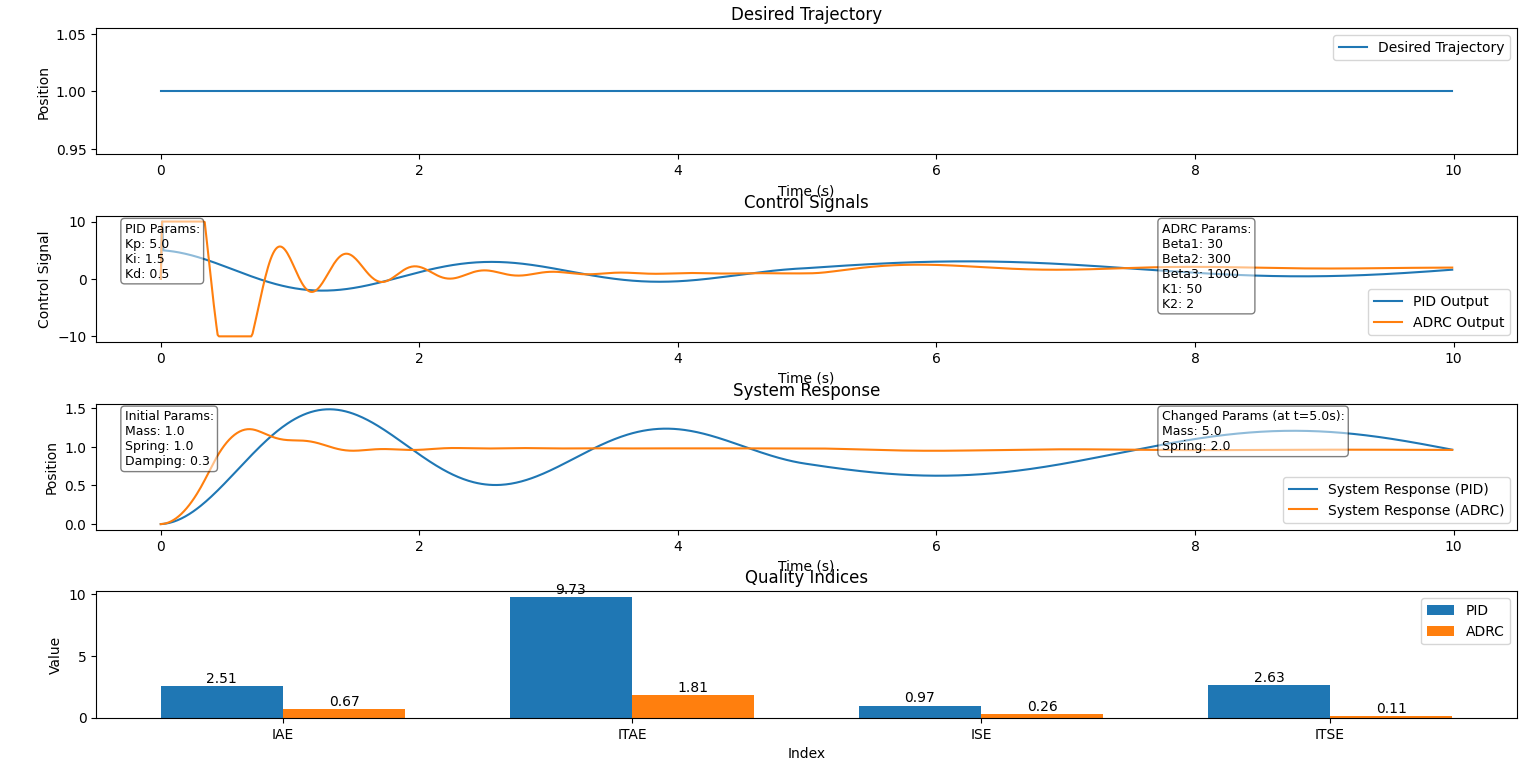
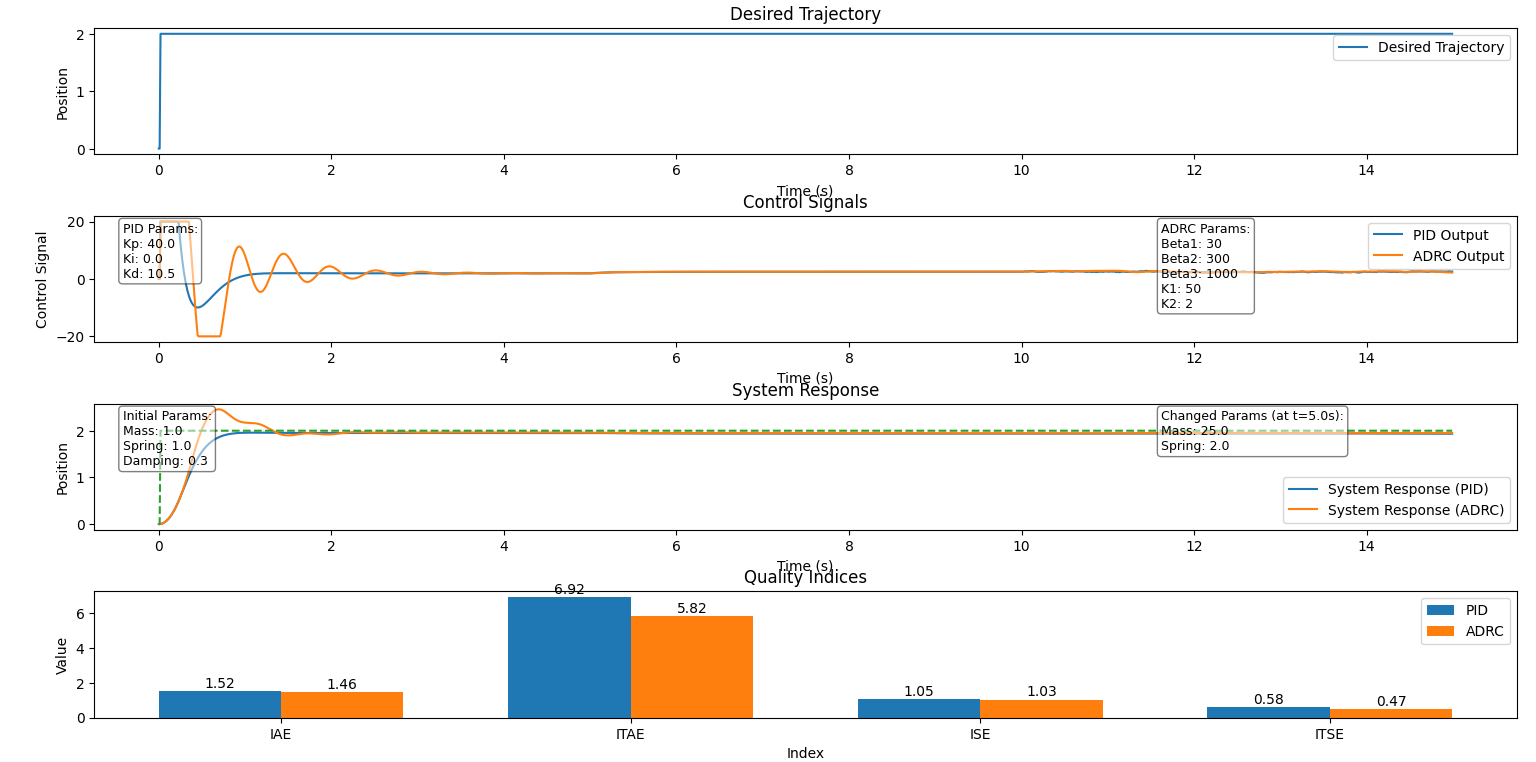
Update README.md

diff --git a/README.md b/README.md
@@ -6,7 +6,7 @@ Projekt z przedmiotu Teoria Sterowania w Robotyce. Porównanie odporności stero
 
 ## Opis projektu
 
-W projekcie zaimplementowano obiekt o pewnej masie oraz kilka różnych trajektorii, które można dostosowywać i wybierać według uznania. W trakcie symulacji porównano zachowanie sterowników PID i ADRC zarówno w przypadku stałych własności obiektu, jak i w sytuacji, gdy te własności zmieniają się w połowie symulacji. Wyniki są przedstawione w postaci wykresów, które zawierają trajektorię żądaną, sygnały sterujące oraz odpowiedzi układu.
+W projekcie zaimplementowano obiekt o pewnej masie oraz kilka różnych trajektorii, które można dostosowywać i wybierać według uznania. W trakcie symulacji porównano zachowanie sterowników PID i ADRC zarówno w przypadku stałych własności obiektu, jak i w sytuacji, gdy te własności zmieniają się w 5. sekundzie symulacji, natomiast po 10. sekundzie wprowadzony zostaje szum. Wyniki są przedstawione w postaci wykresów, które zawierają trajektorię żądaną, sygnały sterujące oraz odpowiedzi układu.
 
 ## Konfigurowalne parametry
 
@@ -28,18 +28,18 @@ Główny plik projektu, w którym znajduje się konfiguracja parametrów, inicja
 ```python
 # Configuration parameters
 dt = 0.01
-simulation_time = 10
+simulation_time = 15
 t = np.arange(0, simulation_time, dt)
 
 # Trajectory configuration
-trajectory_type = 'const'  # Options: 'sin', 'const', 'poly', 'triangle'
-const_value = 1.0  # for 'const'
-poly_coefficients = [1, -2, 1]  # for 'poly'
+trajectory_type = 'sin'  # Options: 'sin', 'const', 'poly', 'triangle'
+const_value = 2.0  # for 'const'
+poly_coefficients = [1, -3, 1]  # for 'poly'
 triangle_period = 2  # for 'triangle'
 triangle_amplitude = 1  # for 'triangle'
 
 # Controller parameters
-pid_params = {'kp': 5.0, 'ki': 1.5, 'kd': 0.5}
+pid_params = {'kp': 40.0, 'ki': 0., 'kd': 10.5}
 adrc_params = {'beta1': 30, 'beta2': 300, 'beta3': 1000, 'k1': 50, 'k2': 2, 'dt': dt}
 
 # Initial system parameters
@@ -93,11 +93,19 @@ class MassSpringDamper:
         self.damping_coefficient = damping_coefficient
         self.position = 0
         self.velocity = 0
+        self.noise = 0
 
     def update(self, force, dt, current_time):
+        if current_time>5.0:
+            self.mass = 1.0
+            self.spring_constant = 1.3
+            self.damping_coefficient = 1.5 *10
+        if current_time> 10.0:
+            self.noise = np.random.normal(0, 0.5)
+
         acceleration = (force - self.spring_constant * self.position
                         - self.damping_coefficient * self.velocity) / self.mass
-        self.velocity += acceleration * dt
+        self.velocity += (acceleration+self.noise) * dt
         self.position += self.velocity * dt
         return self.position
 ```
@@ -112,8 +120,8 @@ class PIDController:
         self.kd = kd
         self.integral = 0
         self.previous_error = 0
-        self.min = -10
-        self.max = 10
+        self.min = -20
+        self.max = 20
 
     def calculate(self, setpoint, measured_value, dt):
         error = setpoint - measured_value
@@ -149,8 +157,8 @@ class ADRCController:
         self.eso = ESO(beta1, beta2, beta3, dt)
         self.k1 = k1
         self.k2 = k2
-        self.min = -10
-        self.max = 10
+        self.min = -20
+        self.max = 20
 
     def calculate(self, setpoint, measured_value, dt):
         x1_hat, x2_hat, x3_hat = self.eso.update(measured_value)
@@ -175,14 +183,14 @@ def calculate_quality_indices(time, trajectory, response):
     return IAE, ITAE, ISE, ITSE
 ```
 
-### Jak Uruchomić
+## Jak uruchomić
 
 1. Upewnij się, że masz zainstalowany Python 3.11.
 2. Zainstaluj wymagane biblioteki używając `pip install -r requirements.txt`.
 3. Ustaw wirtualne środowisko i aktywuj je.
 4. Uruchom skrypt `main.py`.
 
-## Wykresy wyników
+## Wyniki testów
 
 ### Trajektoria sinusoidalna (bez zmiany parametrów)
 ![sin_bez_zmiany](plots/sin_bez_zmiany.png)
@@ -204,29 +212,29 @@ def calculate_quality_indices(time, trajectory, response):
 
 ### Podsumowanie
 
-Wyniki symulacji pokazują, że sterownik ADRC jest wyraźnie bardziej odporny na zakłócenia i zmiany w parametrach obiektu w porównaniu do klasycznego sterownika PID. Sterownik ADRC lepiej reaguje na dynamiczne odchylenia już w trakcie swojego działania, co sprawia, że jest bardziej efektywny w utrzymaniu zadanej trajektorii nawet w trudnych warunkach. Porównanie wskaźników jakości dla różnych trajektorii i zmian parametrów obiektu potwierdza wyższość sterownika ADRC pod względem precyzji i stabilności odpowiedzi systemu.
+Wyniki symulacji pokazują, że sterownik ADRC jest wyraźnie bardziej odporny na zakłócenia i zmiany w parametrach obiektu w porównaniu do klasycznego sterownika PID. Sterownik ADRC lepiej reaguje na dynamiczne odchylenia już w trakcie swojego działania, co sprawia, że jest bardziej efektywny w utrzymaniu zadanej trajektorii nawet w trudnych warunkach. Porównanie wskaźników jakości dla różnych trajektorii i zmian parametrów obiektu potwierdza wyższość sterownika ADRC pod względem precyzji i stabilności odpowiedzi systemu. Sterowniki PID i ADRC świetnie radzą sobie również z wprowadzonym szumem, co dodatkowo pokazuje ich odporność na zakłócenia.
 
 #
 #
 
 #### ======= ENGLISH VERSION =======
 
-# Comparison of PID and ADRC Controllers Robustness
+# Comparison of PID and ADRC controllers robustness
 
 Project for the Control Theory in Robotics course. Comparison of the robustness of PID and ADRC controllers.
 
-## Project Description
+## Project description
 
-The project implements an object with a certain mass and several different trajectories that can be adjusted and selected as desired. The behavior of PID and ADRC controllers is compared during the simulation, both in the case of constant object properties and when these properties change halfway through the simulation. The results are presented in the form of plots, which include the desired trajectory, control signals, and system responses.
+The project implements an object with a certain mass and several different trajectories that can be adjusted and selected as desired. The simulation compares the behavior of the PID and ADRC controllers both when the object's properties are fixed and when these properties change at the 5th second of the simulation, while noise is introduced after the 10th second. The results are presented in the form of graphs, which include the desired trajectory, control signals and system responses.
 
-## Configurable Parameters
+## Configurable parameters
 
 - **Trajectory configuration**: `sin`, `const`, `poly`, `triangle`
 - **Controller settings**: `kp`, `ki`, `kd` for PID and `beta1`, `beta2`, `beta3`, `k1`, `k2` for ADRC
 - **Initial object properties**: mass, spring constant, damping coefficient
 - **Time-varying object properties**: mass, spring constant changed after a specified time
 
-## Project Structure
+## Project structure
 
 The project consists of two main files: `main.py` and `funkcje.py`.
 
@@ -234,23 +242,23 @@ The project consists of two main files: `main.py` and `funkcje.py`.
 
 The main file of the project, which includes the configuration of parameters, initialization of trajectories, controllers, and system simulation.
 
-#### Parameter Configuration:
+#### Configuration parameters:
 
 ```python
 # Configuration parameters
 dt = 0.01
-simulation_time = 10
+simulation_time = 15
 t = np.arange(0, simulation_time, dt)
 
 # Trajectory configuration
-trajectory_type = 'const'  # Options: 'sin', 'const', 'poly', 'triangle'
-const_value = 1.0  # for 'const'
-poly_coefficients = [1, -2, 1]  # for 'poly'
+trajectory_type = 'sin'  # Options: 'sin', 'const', 'poly', 'triangle'
+const_value = 2.0  # for 'const'
+poly_coefficients = [1, -3, 1]  # for 'poly'
 triangle_period = 2  # for 'triangle'
 triangle_amplitude = 1  # for 'triangle'
 
 # Controller parameters
-pid_params = {'kp': 5.0, 'ki': 1.5, 'kd': 0.5}
+pid_params = {'kp': 40.0, 'ki': 0., 'kd': 10.5}
 adrc_params = {'beta1': 30, 'beta2': 300, 'beta3': 1000, 'k1': 50, 'k2': 2, 'dt': dt}
 
 # Initial system parameters
@@ -264,7 +272,7 @@ changed_mass = 1.0
 changed_spring_constant = 1.0
 ```
 
-#### Simulation Loop:
+#### Simulation loop:
 
 ```python
 # Simulation loop
@@ -292,9 +300,9 @@ for i in range(1, len(t)):
 
 ### funkcje.py
 
-This file contains all the functions used in `main.py`, including trajectory generation, controller implementation, system simulation, and functions for plotting the results.
+This file contains all the functions used in `main.py`, including trajectory generation, controller implementation, system simulation, and functions for plotting results.
 
-#### Object Implementation:
+#### Object implementation:
 
 ```python
 class MassSpringDamper:
@@ -304,16 +312,24 @@ class MassSpringDamper:
         self.damping_coefficient = damping_coefficient
         self.position = 0
         self.velocity = 0
+        self.noise = 0
 
     def update(self, force, dt, current_time):
+        if current_time>5.0:
+            self.mass = 1.0
+            self.spring_constant = 1.3
+            self.damping_coefficient = 1.5 *10
+        if current_time> 10.0:
+            self.noise = np.random.normal(0, 0.5)
+
         acceleration = (force - self.spring_constant * self.position
                         - self.damping_coefficient * self.velocity) / self.mass
-        self.velocity += acceleration * dt
+        self.velocity += (acceleration+self.noise) * dt
         self.position += self.velocity * dt
         return self.position
 ```
 
-#### Controller Implementation:
+#### Controller implementation:
 
 ```python
 class PIDController:
@@ -323,8 +339,8 @@ class PIDController:
         self.kd = kd
         self.integral = 0
         self.previous_error = 0
-        self.min = -10
-        self.max = 10
+        self.min = -20
+        self.max = 20
 
     def calculate(self, setpoint, measured_value, dt):
         error = setpoint - measured_value
@@ -360,8 +376,8 @@ class ADRCController:
         self.eso = ESO(beta1, beta2, beta3, dt)
         self.k1 = k1
         self.k2 = k2
-        self.min = -10
-        self.max = 10
+        self.min = -20
+        self.max = 20
 
     def calculate(self, setpoint, measured_value, dt):
         x1_hat, x2_hat, x3_hat = self.eso.update(measured_value)
@@ -374,7 +390,7 @@ class ADRCController:
         return control_signal
 ```
 
-#### Quality Indices Implementation:
+#### Quality indices implementation:
 
 ```python
 def calculate_quality_indices(time, trajectory, response):
@@ -385,33 +401,34 @@ def calculate_quality_indices(time, trajectory, response):
     ITSE = np.trapz(time * error ** 2, time)
     return IAE, ITAE, ISE, ITSE
 ```
-### How to Run
+
+## How to run
 
 1. Make sure you have Python 3.11 installed.
 2. Install the required libraries using `pip install -r requirements.txt`.
-3. Set up a virtual environment and activate it.
+3. Set up and activate a virtual environment.
 4. Run the `main.py` script.
 
-## Result Plots
+## Test results
 
-### Sinusoidal Trajectory (without parameter change)
+### Sinusoidal trajectory (without parameter change)
 ![sin_bez_zmiany](plots/sin_bez_zmiany.png)
 
-### Sinusoidal Trajectory (with parameter change)
+### Sinusoidal trajectory (with parameter change)
 ![sin_zmiana](plots/sin_zmiana.png)
 
-### Triangle Trajectory (without parameter change)
+### Triangular trajectory (without parameter change)
 ![triangle_bez_zmiany](plots/triangle_bez_zmiany.png)
 
-### Triangle Trajectory (with parameter change)
+### Triangular trajectory (with parameter change)
 ![triangle_zmiana](plots/triangle_zmiana.png)
 
-### Constant Trajectory (without parameter change)
+### Constant trajectory (without parameter change)
 ![const_bez_zmiany](plots/const_bez_zmiany.png)
 
-### Constant Trajectory (with parameter change)
+### Constant trajectory (with parameter change)
 ![const_zmiana](plots/const_zmiana.png)
 
 ### Summary
 
-The simulation results show that the ADRC controller is significantly more robust to disturbances and changes in object parameters compared to the classic PID controller. The ADRC controller responds better to dynamic deviations during its operation, making it more effective in maintaining the desired trajectory even under challenging conditions. Comparing the quality indices for different trajectories and changes in object parameters confirms the superiority of the ADRC controller in terms of precision and stability of the system response.
+Simulation results show that the ADRC controller is clearly more resistant to disturbances and changes in object parameters compared to a classical PID controller. The ADRC controller reacts better to dynamic deviations already during its operation, which makes it more effective in maintaining the set trajectory even under difficult conditions. A comparison of quality indicators for different trajectories and changes in object parameters confirms the superiority of the ADRC controller in terms of precision and stability of system response. The PID and ADRC controllers also cope well with the introduced noise, which further demonstrates their robustness to noise.
